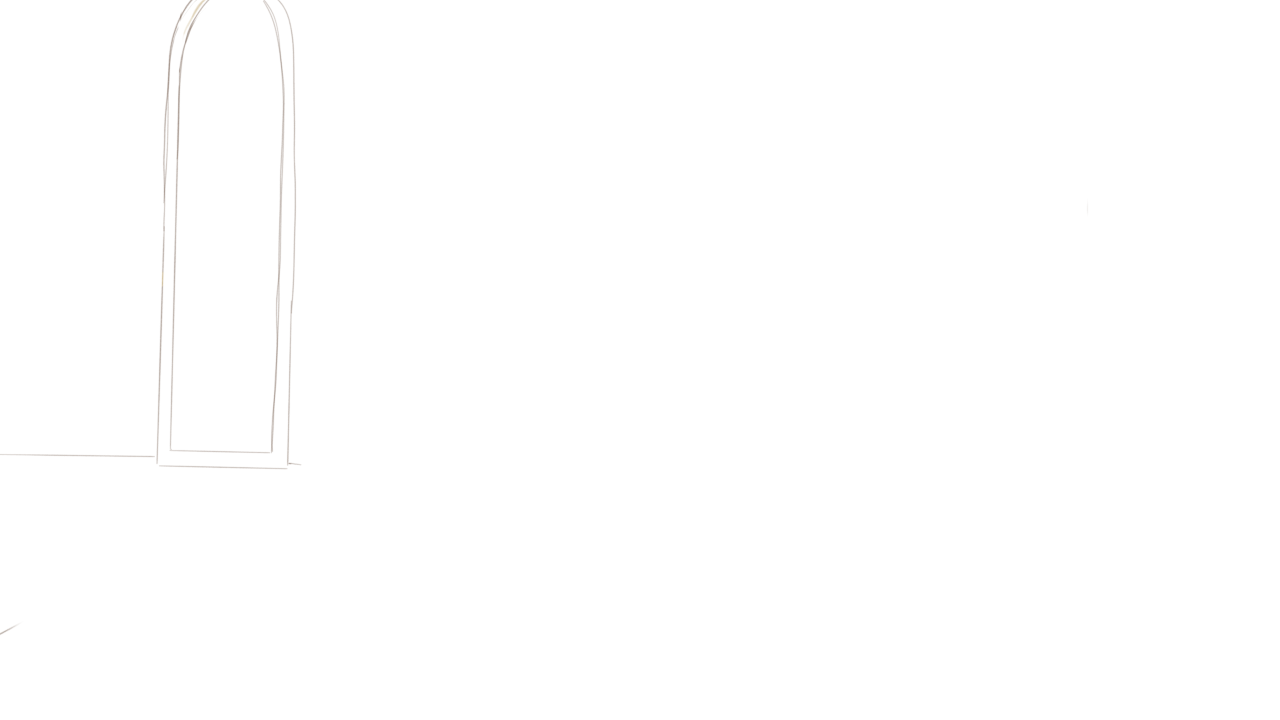
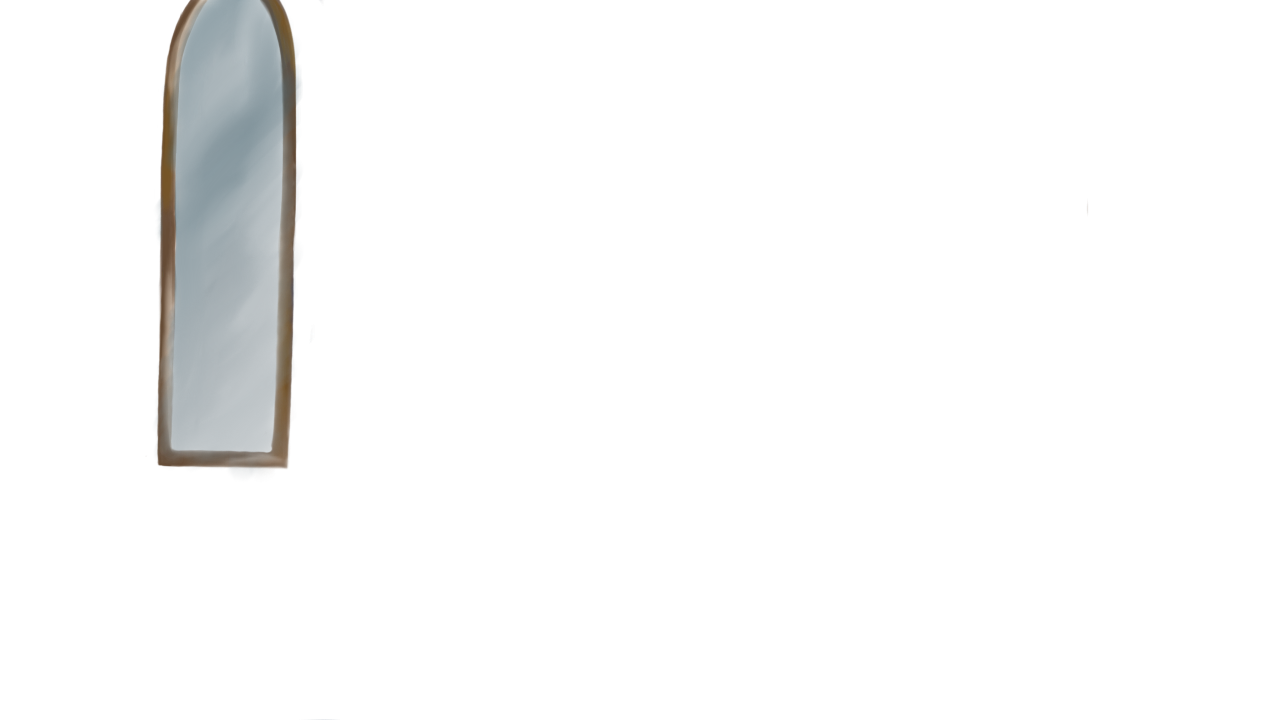
Adicionei espelho

Changed region(s): [[0.0938, 0.0, 0.25, 0.6722]]

diff --git a/house.html b/house.html
@@ -20,7 +20,7 @@
     <img id="tv" src="images/house/tv.png" width="80%" alt="tv">
     <img id="tv_cabinet" src="images/house/tv_cabinet.png" width="75%" alt="cabinet">
     <img id="mirror" src="images/house/mirror.png" width="80%" alt="mirror">
-    <img id="cabinet" src="images/house/cabinet.png" width="80%" alt="cabinet">
+    <img id="cabinet" src="images/house/cabinet.png" width="90%" alt="cabinet">
   </main>
   
 </body>
